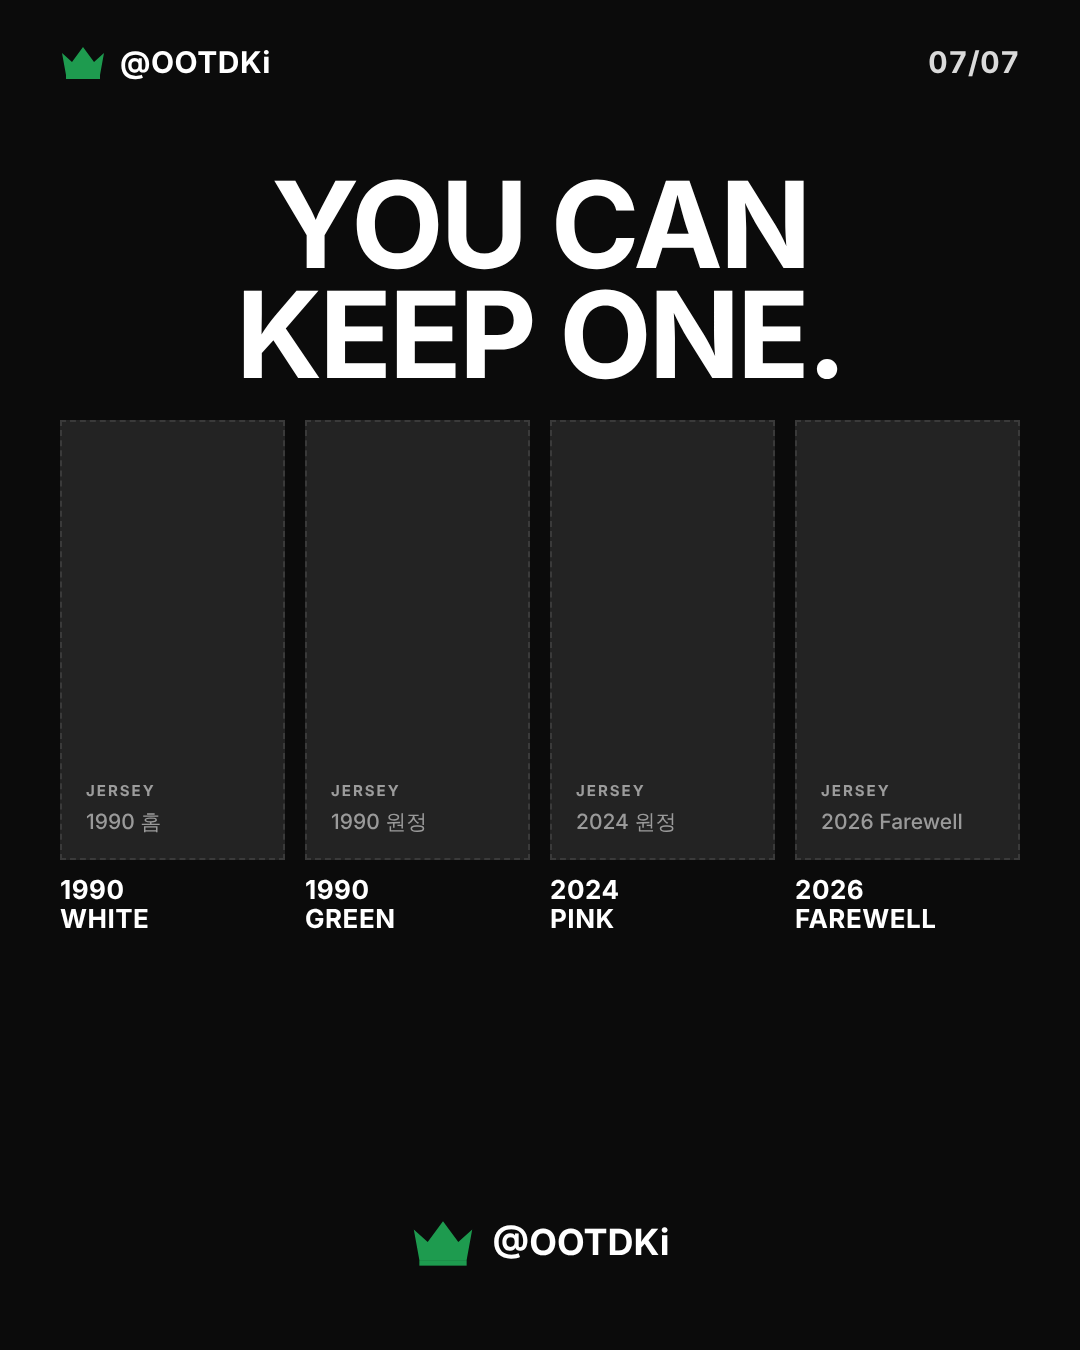
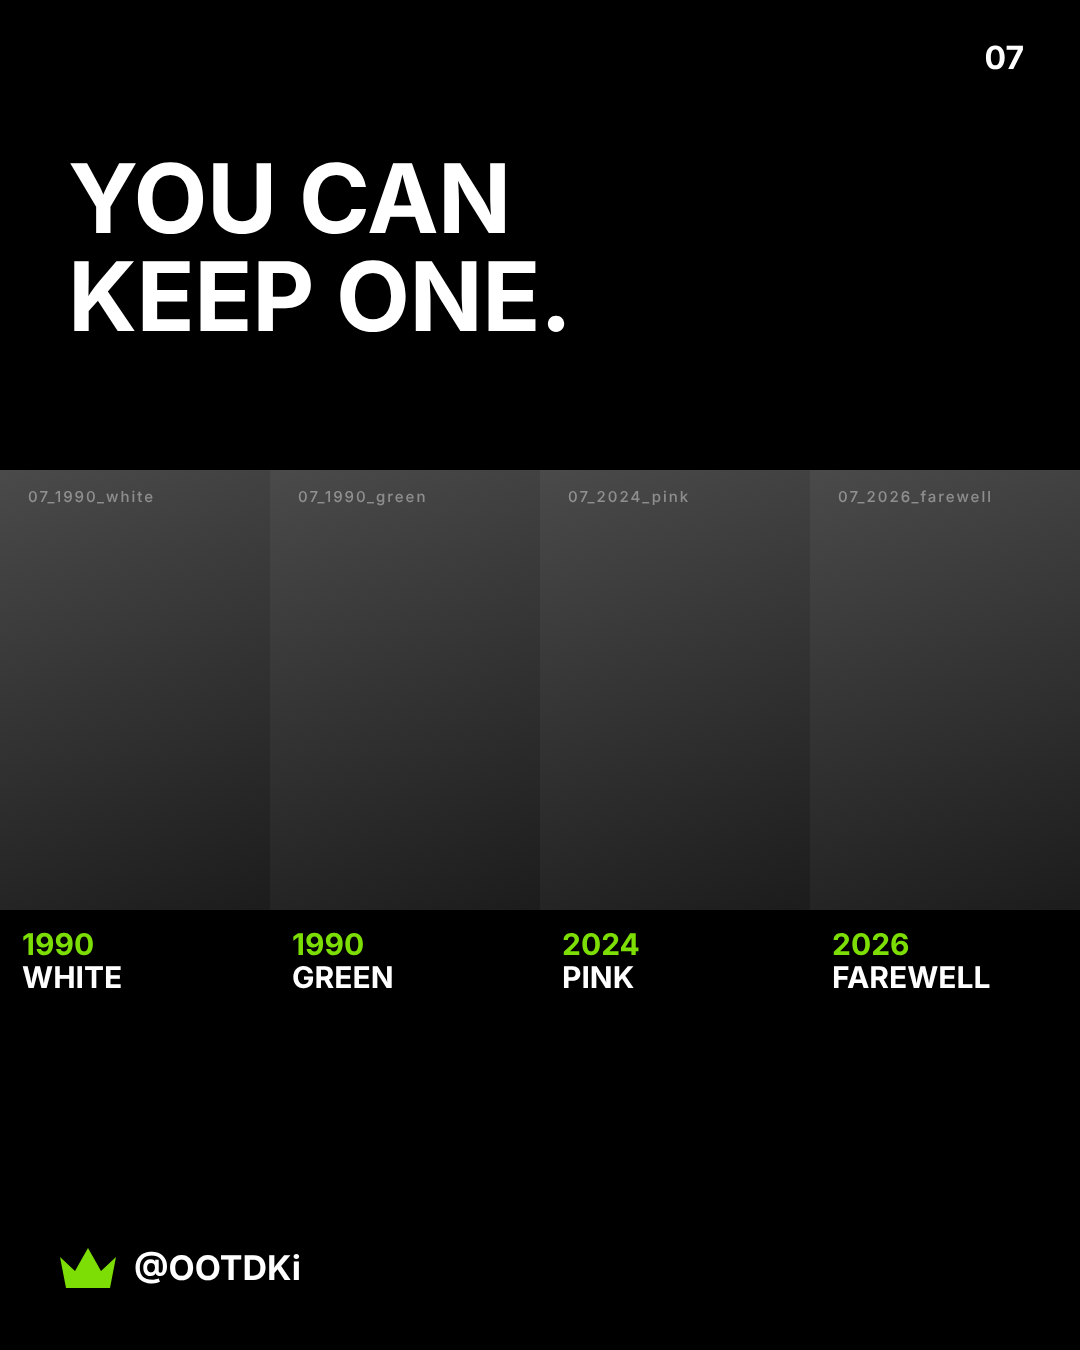
Rework carousel to OOTDKi full-bleed format (no canvas)
Claude-Session: https://claude.ai/code/session_01GpgvCArn8CBuwwCWMsWG9F

diff --git a/carousel_bye_bye_adidas/carousel.html b/carousel_bye_bye_adidas/carousel.html
@@ -2,131 +2,123 @@
 <html lang="en"><head><meta charset="utf-8">
 <title>OOTDKi Bye Bye Adidas</title>
 <style>
-:root{--paper:#F3F0E8;--ink:#0E0E0E;--crown:#1E9B4F;--slot:#D9D5CB;--slot-ink:#6B675E;--muted:#8A857A}
+/* OOTDKi format: full-bleed photo, no canvas/margins/frames. Text sits on the photo over a bottom shade. */
+:root{--lime:#7CDE04}
 *{box-sizing:border-box;margin:0;padding:0}
-body{background:#777;font-family:"Helvetica Neue",Helvetica,Inter,Arial,sans-serif;font-weight:700}
-.card{width:1080px;height:1350px;position:relative;overflow:hidden;background:var(--paper);color:var(--ink);margin:0 auto 40px}
-.card.dark{background:#0B0B0B;color:#fff}
-/* OOTDKi chrome */
-.top{position:absolute;top:44px;left:60px;right:60px;display:flex;justify-content:space-between;align-items:center;font-size:30px;letter-spacing:.5px;z-index:5}
-.handle{display:flex;align-items:center;gap:14px}
-.crown{width:46px;height:34px;flex:none}
-.page{font-variant-numeric:tabular-nums;opacity:.85}
-/* photo slots */
-.slot{position:absolute;background:var(--slot);color:var(--slot-ink);display:flex;flex-direction:column;justify-content:flex-end;padding:22px 24px;font-family:Inter,"WenQuanYi Zen Hei",sans-serif;font-weight:500;font-size:21px;line-height:1.4;border:2px dashed #b9b4a8}
-.dark .slot{background:#232323;color:#9a9a9a;border-color:#3a3a3a}
-.slot b{display:block;font-weight:700;font-size:15px;letter-spacing:2px;text-transform:uppercase;margin-bottom:6px;color:var(--ink);opacity:.55}
-.dark .slot b{color:#fff}
-/* copy */
-.copy{position:absolute;left:60px;right:60px;bottom:70px;z-index:4}
-.kicker{font-size:26px;letter-spacing:3px;text-transform:uppercase;color:var(--muted);margin-bottom:18px}
-.dark .kicker{color:#9a9a9a}
-h1{font-size:112px;line-height:.92;letter-spacing:-3px;text-transform:uppercase}
-h2{font-size:84px;line-height:.95;letter-spacing:-2px;text-transform:uppercase}
-.sub{font-size:36px;line-height:1.25;margin-top:22px;letter-spacing:-.3px;max-width:960px}
-.rank{display:inline-block;background:var(--crown);color:#fff;font-size:24px;letter-spacing:2px;padding:8px 16px;margin-bottom:18px}
-/* split layout (3-6) */
-.split .L{left:60px;top:120px;width:470px;height:800px}
-.split .R{left:550px;top:120px;width:470px;height:800px}
-.split .copy{bottom:64px}
-.tag{position:absolute;top:136px;z-index:4;font-size:20px;letter-spacing:2px;background:var(--ink);color:#fff;padding:6px 12px}
-.tag.l{left:76px}.tag.r{left:566px}
-/* grid (7) */
-.grid{position:absolute;left:60px;right:60px;top:420px;display:grid;grid-template-columns:repeat(4,1fr);gap:20px}
-.grid .slot{position:relative;height:440px}
-.grid .name{font-size:26px;letter-spacing:.5px;margin-top:16px;line-height:1.1}
-.footer{position:absolute;left:0;right:0;bottom:84px;display:flex;justify-content:center;align-items:center;gap:18px;font-size:36px}
-.footer .crown{width:64px;height:48px}
+body{background:#555;font-family:"Helvetica Neue",Helvetica,Arial,Inter,sans-serif;font-weight:700}
+.card{width:1080px;height:1350px;position:relative;overflow:hidden;background:#000;color:#fff;margin:0 auto 40px}
+/* photo slot: drop a file at photos/<name>.jpg — it fills the slot (cover). Until then a dark stand-in shows. */
+.ph{position:absolute;background:var(--img) center/cover no-repeat,linear-gradient(160deg,#4a4a4a,#1c1c1c)}
+.ph .note{position:absolute;top:110px;left:28px;right:28px;font:500 19px/1.4 Inter,"WenQuanYi Zen Hei",sans-serif;color:rgba(255,255,255,.55)}
+.ph .note i{display:block;font-style:normal;font-size:15px;letter-spacing:2px;color:rgba(255,255,255,.4)}
+.ph.filled .note{display:none}
+.shade{position:absolute;left:0;right:0;bottom:0;height:62%;background:linear-gradient(to bottom,rgba(0,0,0,0),rgba(0,0,0,.55) 40%,rgba(0,0,0,.88));pointer-events:none}
+.num{position:absolute;top:38px;right:56px;font-size:32px;z-index:5}
+.text{position:absolute;left:68px;right:68px;bottom:150px;z-index:5}
+h1{font-size:76px;line-height:1.02;text-transform:uppercase;letter-spacing:-.5px;margin-bottom:18px}
+.lab{color:var(--lime);font-size:34px;line-height:1.1;text-transform:uppercase}
+.body{font-size:30px;line-height:1.2;margin-bottom:12px}
+.g{color:var(--lime)}
+.foot{position:absolute;left:60px;bottom:62px;display:flex;align-items:center;gap:18px;font-size:34px;z-index:5}
+.crown{width:56px;height:40px}
 </style></head><body>
-
-<!-- crown symbol -->
-<svg width="0" height="0" style="position:absolute"><defs>
-<symbol id="crown" viewBox="0 0 46 34"><path fill="#1E9B4F" d="M2 8l10 9 11-15 11 15 10-9-4 22H6z"/><rect x="6" y="30" width="34" height="4" fill="#1E9B4F"/></symbol>
-</defs></svg>
+<svg width="0" height="0" style="position:absolute"><defs><symbol id="crown" viewBox="0 0 56 40"><path fill="#7CDE04" d="M0 9l15 14L28 0l13 23 15-14-6 31H6z"/></symbol></defs></svg>
 
 <!-- 01 COVER -->
-<section class="card dark" id="c1">
-  <div class="top"><span class="handle"><svg class="crown"><use href="#crown"/></svg>@OOTDKi</span><span class="page">01/07</span></div>
-  <div class="slot" style="left:0;top:0;width:1080px;height:1350px;justify-content:flex-start;padding-top:130px;padding-left:60px"><b>Main photo · full bleed</b>베를린 마지막 경기(11/16 vs NED) 선수 착용 컷<br>Farewell 서드 킷 가슴(옛 DFB 문장·트레포일) 보이게 크롭</div>
-  <div class="slot" style="left:640px;top:340px;width:380px;height:475px;background:#efece4;border:8px solid #fff;color:#6B675E;box-shadow:0 20px 50px rgba(0,0,0,.45)"><b style="color:#0E0E0E">Inset · 1990 HOME</b>1990 서독 홈 저지 실물 정면<br>가슴 검정·빨강·금 그래픽 보이게</div>
-  <div style="position:absolute;inset:auto 0 0 0;height:620px;background:linear-gradient(transparent,rgba(0,0,0,.85));z-index:3"></div>
-  <div class="copy">
-    <h1>Bye bye,<br>adidas.</h1>
-    <p class="sub">Germany’s final kit is here.<br>We’d still pick 1990.</p>
+<section class="card">
+  <div class="ph" style="inset:0;--img:url(photos/01_berlin_main.jpg)"><p class="note"><i>01_berlin_main.jpg · full bleed</i>베를린 마지막 경기 선수 착용 컷, Farewell 가슴 디자인 보이게</p></div>
+  <div class="ph" style="right:0;top:150px;width:400px;height:500px;--img:url(photos/01_1990_home_inset.jpg)"><p class="note" style="top:24px"><i>01_1990_home_inset.jpg</i>1990 HOME 실물, 가슴 그래픽 보이게</p></div>
+  <div class="shade"></div>
+  <span class="num">01</span>
+  <div class="text">
+    <h1>Bye bye, adidas.</h1>
+    <p class="body">Germany’s final kit is here.<br>We’d still pick <span class="g">1990.</span></p>
   </div>
+  <div class="foot"><svg class="crown"><use href="#crown"/></svg>OOTDKi EDIT</div>
 </section>
 
 <!-- 02 LAST MATCH -->
-<section class="card" id="c2">
-  <div class="top"><span class="handle"><svg class="crown"><use href="#crown"/></svg>@OOTDKi</span><span class="page">02/07</span></div>
-  <div class="slot" style="left:60px;top:120px;width:960px;height:640px"><b>Match photo</b>11월 16일 베를린 올림피아슈타디온, 독일 5–0 네덜란드 경기 사진 1장</div>
-  <div class="slot" style="left:60px;top:780px;width:470px;height:230px"><b>Detail · 확대</b>옛 DFB 문장(1978–96)</div>
-  <div class="slot" style="left:550px;top:780px;width:470px;height:230px"><b>Detail · 확대</b>트레포일</div>
-  <div class="copy" style="bottom:64px">
-    <h2 style="font-size:72px">One last night<br>in Berlin.</h2>
-    <p class="sub" style="font-size:28px;margin-top:16px">Germany beat the Netherlands 5–0 in their final men’s match wearing adidas. Nike takes over in January 2027.</p>
+<section class="card">
+  <div class="ph" style="left:0;top:0;width:1080px;height:640px;--img:url(photos/02_match.jpg)"><p class="note"><i>02_match.jpg</i>11월 16일 베를린 경기 사진 1장</p></div>
+  <div class="ph" style="left:0;top:640px;width:540px;height:710px;--img:url(photos/02_dfb_crest.jpg)"><p class="note" style="top:24px"><i>02_dfb_crest.jpg</i>옛 DFB 문장 확대 (칸 위쪽 1/2에 오도록)</p></div>
+  <div class="ph" style="left:540px;top:640px;width:540px;height:710px;--img:url(photos/02_trefoil.jpg)"><p class="note" style="top:24px"><i>02_trefoil.jpg</i>트레포일 확대 (칸 위쪽 1/2에 오도록)</p></div>
+  <div class="shade" style="height:48%"></div>
+  <span class="num">02</span>
+  <div class="text">
+    <h1>One last night<br>in Berlin.</h1>
+    <p class="body">Germany beat the Netherlands 5–0 in their final men’s match wearing adidas. Nike takes over in January 2027.</p>
   </div>
+  <div class="foot"><svg class="crown"><use href="#crown"/></svg>OOTDKi EDIT</div>
 </section>
 
-<!-- 03 1990 HOME -->
-<section class="card split" id="c3">
-  <div class="top"><span class="handle"><svg class="crown"><use href="#crown"/></svg>@OOTDKi</span><span class="page">03/07</span></div>
-  <span class="tag l">1990 WEST GERMANY HOME</span>
-  <div class="slot L"><b>Jersey · front</b>1990 서독 홈 저지 실물 정면</div>
-  <div class="slot R"><b>KL full look · 신발까지</b>중청 스트레이트 데님, 앞단만 살짝 턱인, 빨간 플랫</div>
-  <div class="copy">
-    <span class="rank">OOTDKi ALL-TIME No.1</span>
-    <h2>The one<br>we’d keep.</h2>
-    <p class="sub">Blue jeans. Red flats. Let the chest graphic do the rest.</p>
+<!-- 03–06: left = jersey front, right = KL full look. Two photos flush, no gutter. -->
+<section class="card">
+  <div class="ph" style="left:0;top:0;width:540px;height:1350px;--img:url(photos/03_jersey.jpg)"><p class="note"><i>03_jersey.jpg</i>1990 서독 홈 저지 정면</p></div>
+  <div class="ph" style="left:540px;top:0;width:540px;height:1350px;--img:url(photos/03_look.jpg)"><p class="note"><i>03_look.jpg</i>KL 전신(신발까지): 중청 스트레이트 데님, 앞단 턱인, 빨간 플랫</p></div>
+  <div class="shade"></div>
+  <span class="num">03</span>
+  <div class="text">
+    <p class="lab"><span style="text-transform:none">OOTDKi</span> NO.1 · 1990 West Germany Home</p>
+    <h1 style="margin-top:10px">The one we’d keep.</h1>
+    <p class="body">Blue jeans. Red flats.<br>Let the chest graphic do the rest.</p>
   </div>
+  <div class="foot"><svg class="crown"><use href="#crown"/></svg>OOTDKi EDIT</div>
 </section>
 
-<!-- 04 1990 AWAY -->
-<section class="card split" id="c4">
-  <div class="top"><span class="handle"><svg class="crown"><use href="#crown"/></svg>@OOTDKi</span><span class="page">04/07</span></div>
-  <span class="tag l">1990 WEST GERMANY AWAY</span>
-  <div class="slot L"><b>Jersey · front</b>1990 서독 그린 원정 저지 실물 정면</div>
-  <div class="slot R"><b>KL full look · 신발까지</b>아이보리 긴팔 이너, 크림 롱스커트(불투명), 가슴 덮는 오트 히잡. 저지 밑단은 내려서 초록 패턴 넓게</div>
-  <div class="copy">
-    <h2>Same year.<br>I’d take the green.</h2>
-    <p class="sub">Wear it loose over a cream column skirt.</p>
+<section class="card">
+  <div class="ph" style="left:0;top:0;width:540px;height:1350px;--img:url(photos/04_jersey.jpg)"><p class="note"><i>04_jersey.jpg</i>1990 서독 그린 원정 저지 정면</p></div>
+  <div class="ph" style="left:540px;top:0;width:540px;height:1350px;--img:url(photos/04_look.jpg)"><p class="note"><i>04_look.jpg</i>KL 전신: 아이보리 긴팔 이너, 크림 롱스커트, 오트 히잡, 밑단 내려 입기</p></div>
+  <div class="shade"></div>
+  <span class="num">04</span>
+  <div class="text">
+    <p class="lab">1990 West Germany Away</p>
+    <h1 style="margin-top:10px">Same year.<br>I’d take the green.</h1>
+    <p class="body">Wear it loose over a cream column skirt.</p>
   </div>
+  <div class="foot"><svg class="crown"><use href="#crown"/></svg>OOTDKi EDIT</div>
 </section>
 
-<!-- 05 2024 AWAY -->
-<section class="card split" id="c5">
-  <div class="top"><span class="handle"><svg class="crown"><use href="#crown"/></svg>@OOTDKi</span><span class="page">05/07</span></div>
-  <span class="tag l">2024 GERMANY AWAY</span>
-  <div class="slot L"><b>Jersey · front</b>2024 독일 원정 저지 실물 정면(핑크→보라 그라데이션)</div>
-  <div class="slot R"><b>KL full look · 신발까지</b>밑단 빼 입기, 무릎 기장 워시드 블랙 데님 쇼츠, 얇은 실버 스니커즈</div>
-  <div class="copy">
-    <h2>Pink jersey.<br>Silver shoes.</h2>
-    <p class="sub">Add washed-black jorts and you’re ready for a weekend in KL.</p>
+<section class="card">
+  <div class="ph" style="left:0;top:0;width:540px;height:1350px;--img:url(photos/05_jersey.jpg)"><p class="note"><i>05_jersey.jpg</i>2024 독일 원정 저지 정면</p></div>
+  <div class="ph" style="left:540px;top:0;width:540px;height:1350px;--img:url(photos/05_look.jpg)"><p class="note"><i>05_look.jpg</i>KL 전신: 밑단 빼 입기, 워시드 블랙 무릎 쇼츠, 실버 스니커즈</p></div>
+  <div class="shade"></div>
+  <span class="num">05</span>
+  <div class="text">
+    <p class="lab">2024 Germany Away</p>
+    <h1 style="margin-top:10px">Pink jersey.<br>Silver shoes.</h1>
+    <p class="body">Add washed-black jorts and you’re ready for a weekend in KL.</p>
   </div>
+  <div class="foot"><svg class="crown"><use href="#crown"/></svg>OOTDKi EDIT</div>
 </section>
 
-<!-- 06 2026 FAREWELL -->
-<section class="card split" id="c6">
-  <div class="top"><span class="handle"><svg class="crown"><use href="#crown"/></svg>@OOTDKi</span><span class="page">06/07</span></div>
-  <span class="tag l">2026 GERMANY FAREWELL THIRD</span>
-  <div class="slot L"><b>Jersey · chest detail (크게)</b>Farewell 서드 저지 정면. 옛 DFB 문장과 트레포일을 크게</div>
-  <div class="slot R"><b>KL full look · 신발까지</b>검정 플리츠 트라우저에 턱인, 얇은 로퍼</div>
-  <div class="copy">
-    <h2>The last one,<br>tucked in.</h2>
-    <p class="sub">Black pleated trousers, slim loafers and those two crests up front.</p>
+<section class="card">
+  <div class="ph" style="left:0;top:0;width:540px;height:1350px;--img:url(photos/06_jersey.jpg)"><p class="note"><i>06_jersey.jpg</i>Farewell 서드 가슴 디테일 크게: 옛 DFB 문장 + 트레포일</p></div>
+  <div class="ph" style="left:540px;top:0;width:540px;height:1350px;--img:url(photos/06_look.jpg)"><p class="note"><i>06_look.jpg</i>KL 전신: 검정 플리츠 트라우저에 턱인, 얇은 로퍼</p></div>
+  <div class="shade"></div>
+  <span class="num">06</span>
+  <div class="text">
+    <p class="lab">2026 Germany Farewell Third</p>
+    <h1 style="margin-top:10px">The last one,<br>tucked in.</h1>
+    <p class="body">Black pleated trousers, slim loafers<br>and those two crests up front.</p>
   </div>
+  <div class="foot"><svg class="crown"><use href="#crown"/></svg>OOTDKi EDIT</div>
 </section>
 
-<!-- 07 CTA -->
-<section class="card dark" id="c7">
-  <div class="top"><span class="handle"><svg class="crown"><use href="#crown"/></svg>@OOTDKi</span><span class="page">07/07</span></div>
-  <div style="position:absolute;left:60px;right:60px;top:170px;text-align:center"><h1 style="font-size:120px">You can<br>keep one.</h1></div>
-  <div class="grid">
-    <div><div class="slot"><b>Jersey</b>1990 홈</div><p class="name">1990<br>WHITE</p></div>
-    <div><div class="slot"><b>Jersey</b>1990 원정</div><p class="name">1990<br>GREEN</p></div>
-    <div><div class="slot"><b>Jersey</b>2024 원정</div><p class="name">2024<br>PINK</p></div>
-    <div><div class="slot"><b>Jersey</b>2026 Farewell</div><p class="name">2026<br>FAREWELL</p></div>
+<!-- 07 CTA: black, four kits same size, names right under -->
+<section class="card">
+  <span class="num">07</span>
+  <div class="text" style="top:150px;bottom:auto"><h1 style="font-size:96px">You can<br>keep one.</h1></div>
+  <div style="position:absolute;left:0;right:0;top:470px;display:grid;grid-template-columns:repeat(4,270px)">
+    <div><div class="ph" style="position:relative;height:440px;--img:url(photos/07_1990_white.jpg)"><p class="note" style="top:16px"><i>07_1990_white</i></p></div><p class="lab" style="padding:18px 0 0 22px;font-size:30px">1990<br><span style="color:#fff">White</span></p></div>
+    <div><div class="ph" style="position:relative;height:440px;--img:url(photos/07_1990_green.jpg)"><p class="note" style="top:16px"><i>07_1990_green</i></p></div><p class="lab" style="padding:18px 0 0 22px;font-size:30px">1990<br><span style="color:#fff">Green</span></p></div>
+    <div><div class="ph" style="position:relative;height:440px;--img:url(photos/07_2024_pink.jpg)"><p class="note" style="top:16px"><i>07_2024_pink</i></p></div><p class="lab" style="padding:18px 0 0 22px;font-size:30px">2024<br><span style="color:#fff">Pink</span></p></div>
+    <div><div class="ph" style="position:relative;height:440px;--img:url(photos/07_2026_farewell.jpg)"><p class="note" style="top:16px"><i>07_2026_farewell</i></p></div><p class="lab" style="padding:18px 0 0 22px;font-size:30px">2026<br><span style="color:#fff">Farewell</span></p></div>
   </div>
-  <div class="footer"><svg class="crown"><use href="#crown"/></svg>@OOTDKi</div>
+  <div class="foot"><svg class="crown"><use href="#crown"/></svg>@OOTDKi</div>
 </section>
+
+<script>
+// hide the placement note once the real photo loads
+document.querySelectorAll('.ph').forEach(el=>{const m=getComputedStyle(el).getPropertyValue('--img').match(/url\(["']?([^"')]+)/);if(!m)return;const i=new Image();i.onload=()=>el.classList.add('filled');i.src=m[1];});
+</script>
 </body></html>
